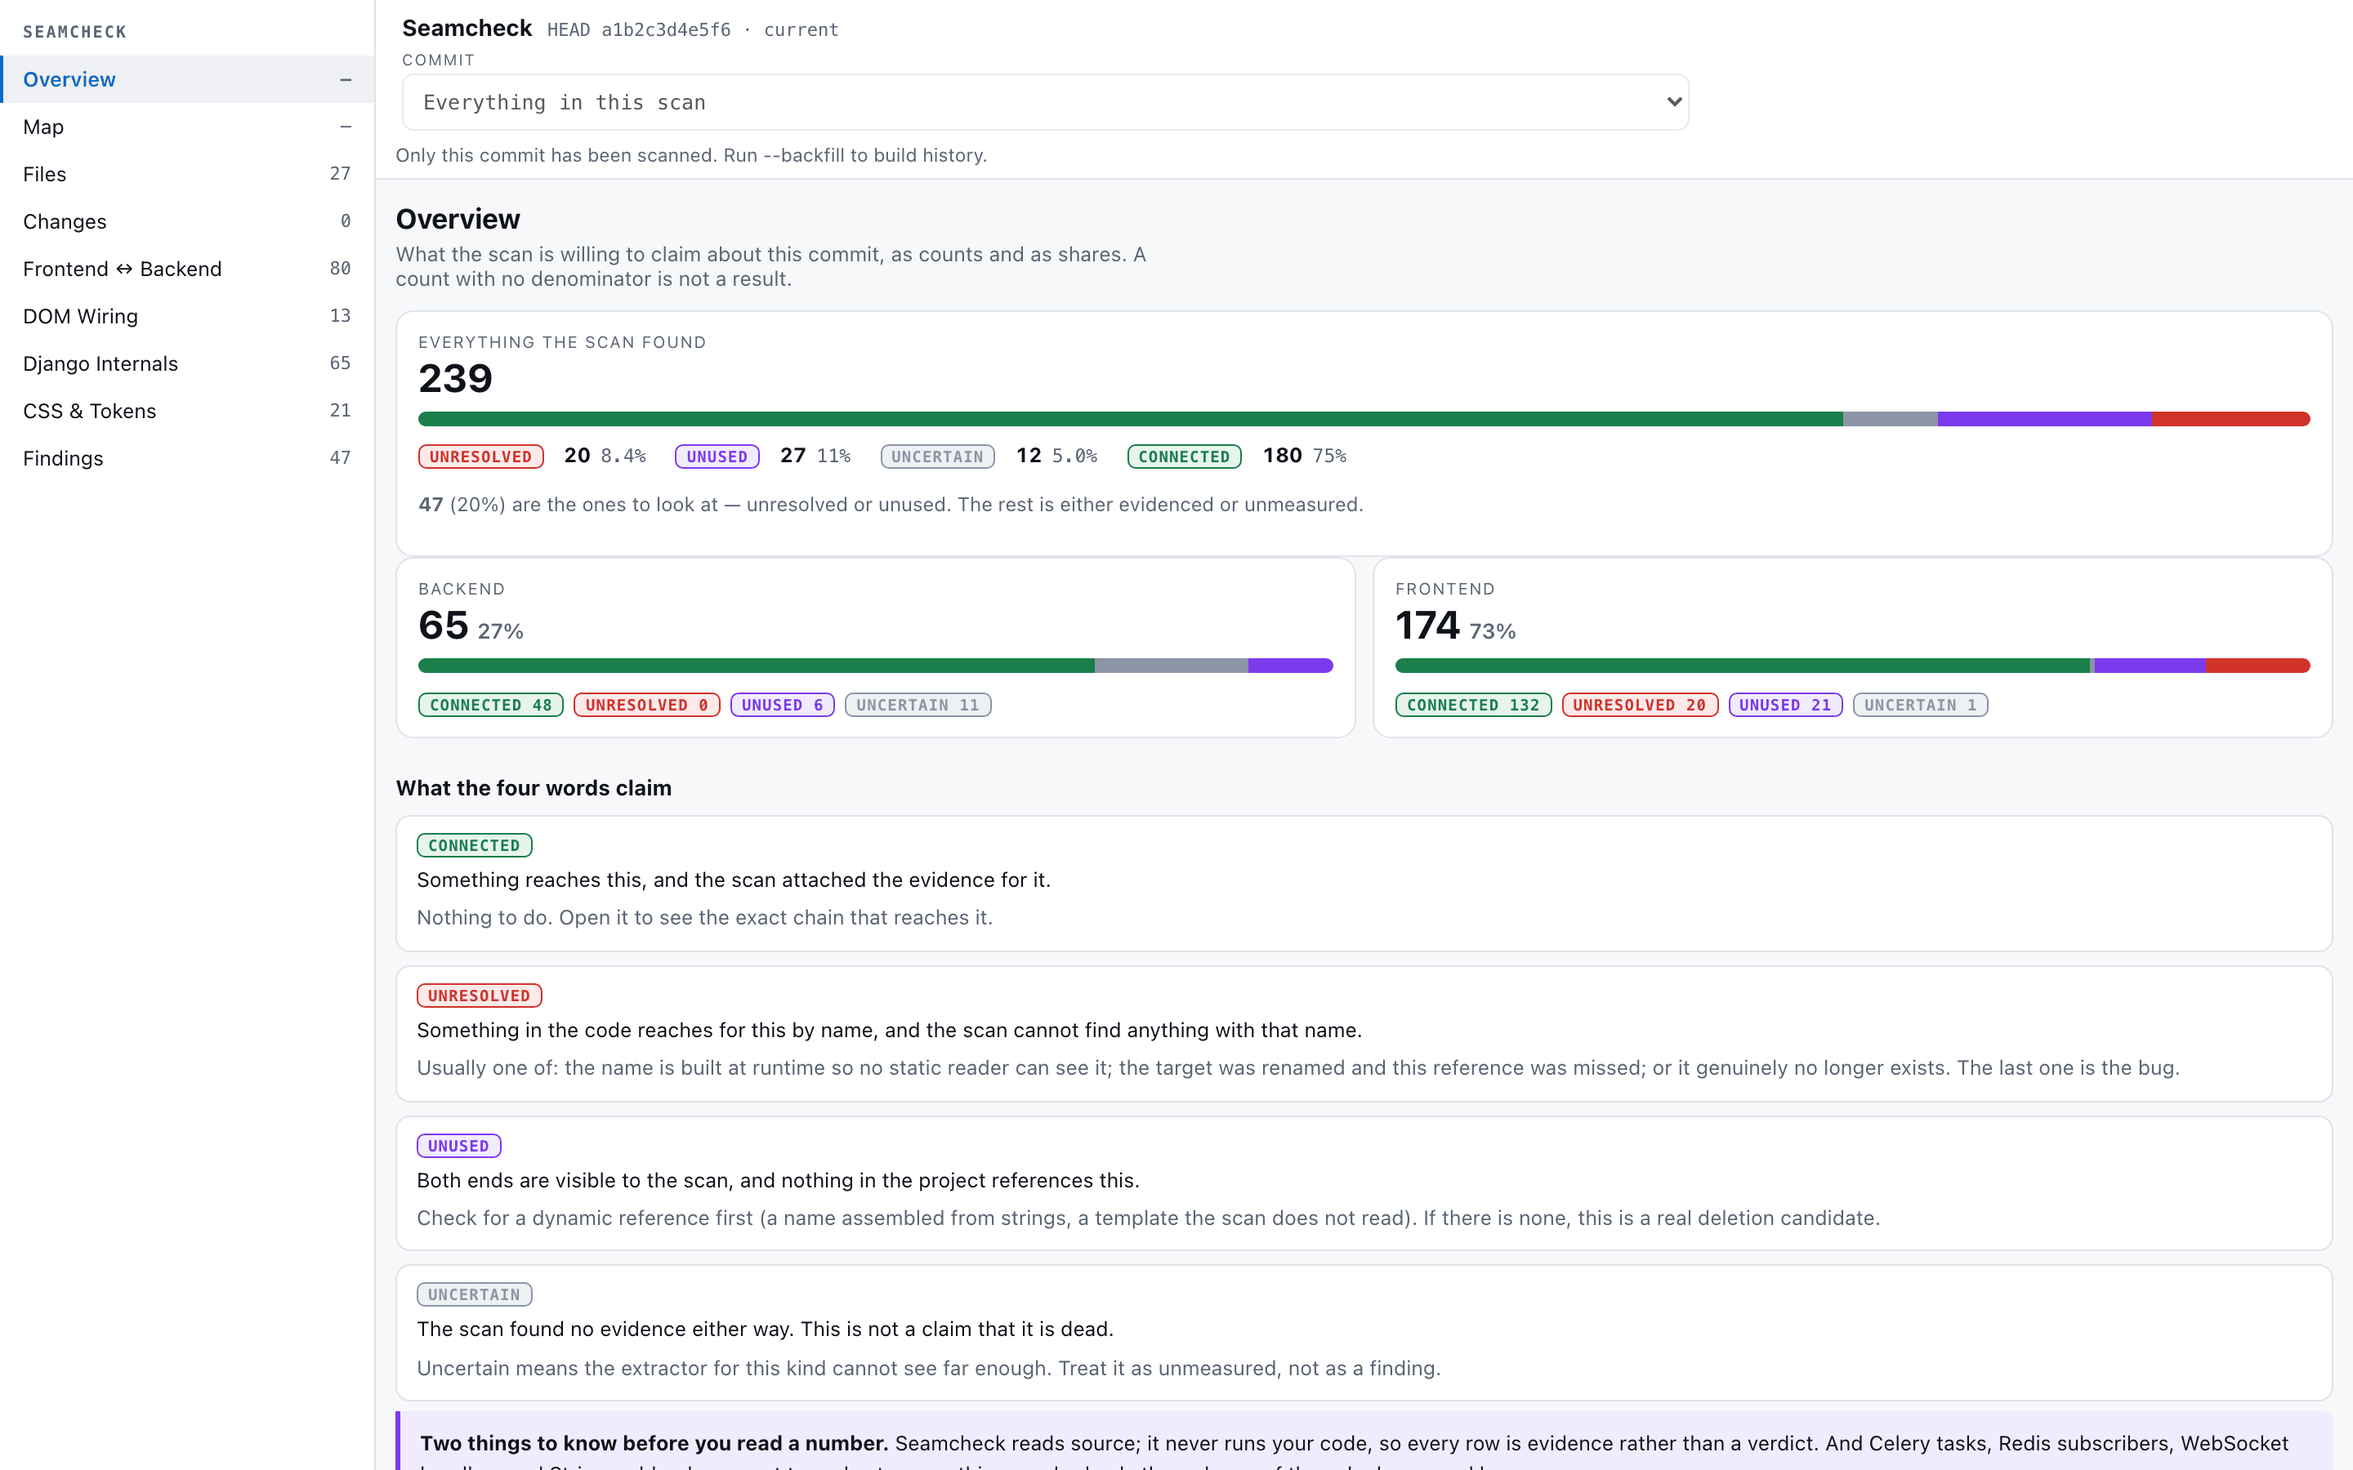
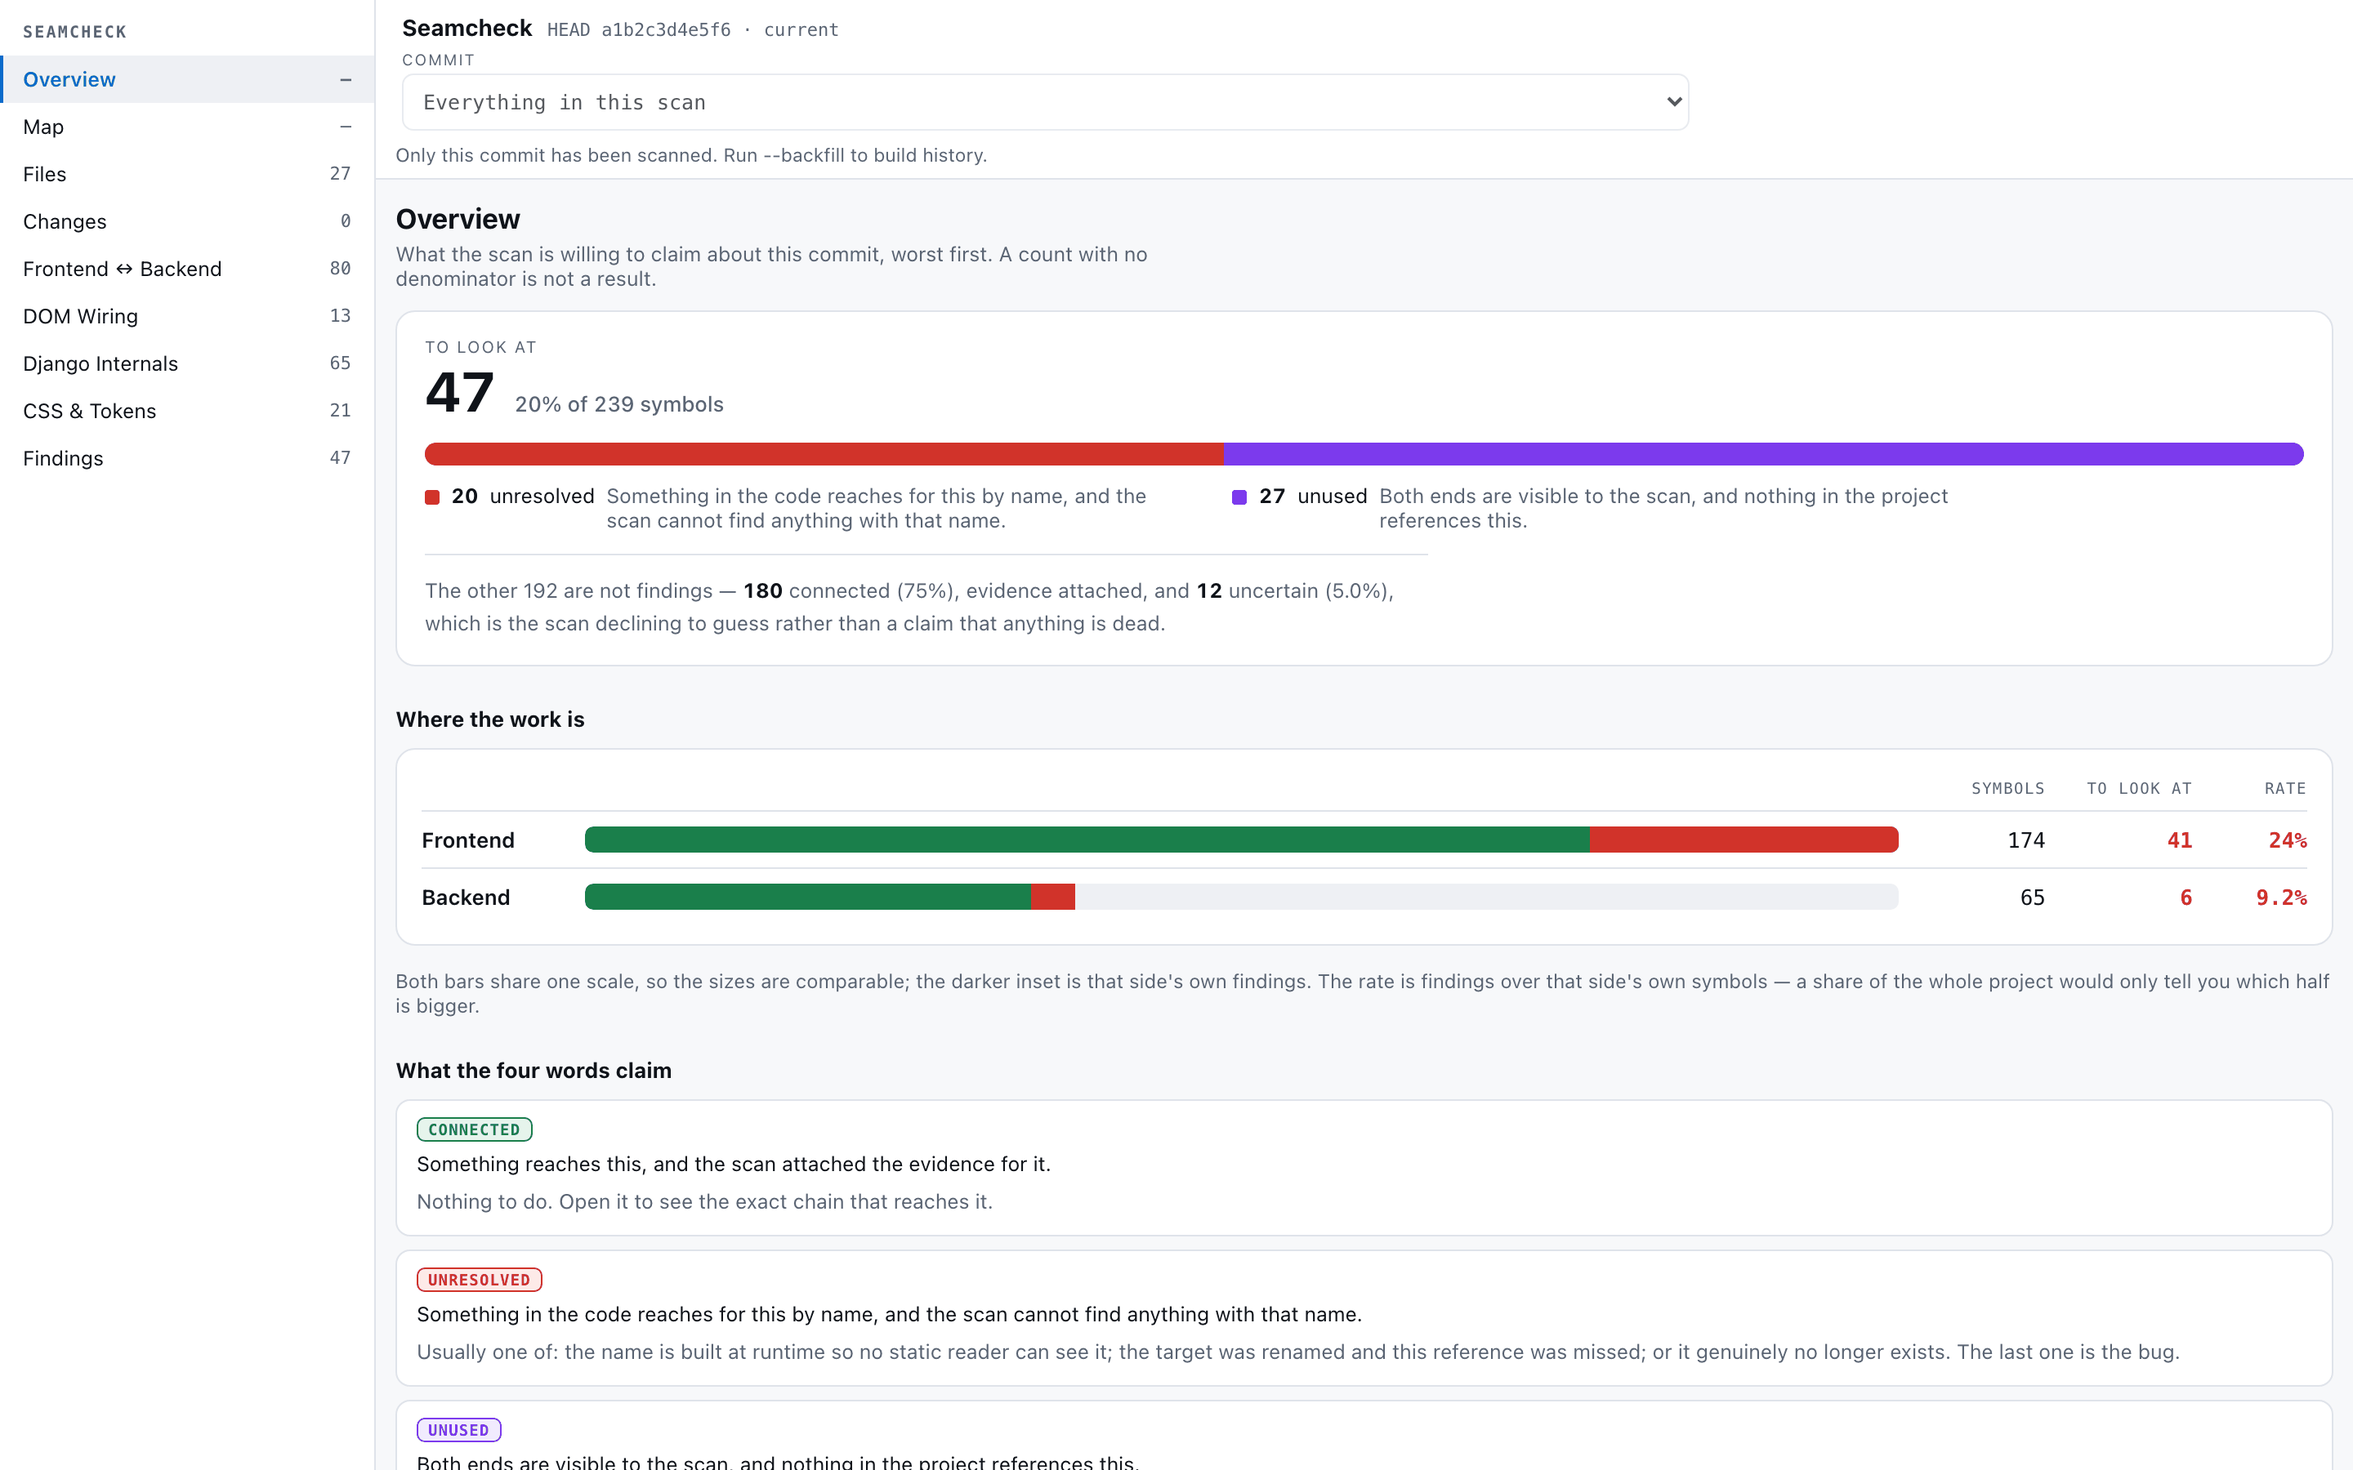
fix(overview): stop spending the chart on the part nobody acts on
The stacked bar drew all four statuses against the whole codebase, so 96%
of its width went to connected and uncertain - the two you never act on -
and the 4% you opened the page for was a sliver at the far right edge.
Visual weight exactly inverted against importance.

The findings now get a bar of their own, scaled to the findings: 1,319
unresolved against 136 unused is legible, which is the only comparison in
there worth drawing. Connected and uncertain become one muted sentence
underneath, which is all "not a finding" needs.

Backend and frontend were two cards each drawn to its own width, sitting
side by side inviting a comparison the scales made meaningless - 854 and
35,890 rendered the same length. One shared scale now, so the 42x
difference is the thing you see. Each side is also rated against ITSELF
rather than against the project total: "backend is 2.3% of symbols" is a
fact about the project, where "backend findings rate 0.0%, frontend 4.1%"
is a fact about its health, and on this scan it says the whole story in
one line.

diff --git a/seamcheck/renderers/map_html.py b/seamcheck/renderers/map_html.py
@@ -256,8 +256,6 @@ svg.nolabels .nd text { display:none; }
 .card .k { font-size:10px; text-transform:uppercase; letter-spacing:.08em; color:var(--muted); }
 .card .v { font-size:24px; font-weight:700; margin:2px 0 7px; }
 .card .vs { font-size:13px; font-weight:600; color:var(--muted); }
-/* One bar, four segments, to scale. The shares are the result; the counts are the detail
-   under them. A number with no denominator is not a result. */
 .stack { display:flex; height:9px; border-radius:5px; overflow:hidden; background:var(--sunk);
          margin:0 0 10px; }
 .stack i { display:block; height:100%; }
@@ -265,12 +263,59 @@ svg.nolabels .nd text { display:none; }
 .stack i.unresolved { background:var(--crit); }
 .stack i.unused { background:var(--warn); }
 .stack i.uncertain { background:var(--dim); }
-.tallies { display:flex; flex-wrap:wrap; gap:6px 18px; }
-.ty { display:flex; align-items:baseline; gap:6px; font-size:12.5px; }
-.ty b { font-variant-numeric:tabular-nums; }
-.ty .pc { color:var(--muted); font-size:11.5px; font-variant-numeric:tabular-nums;
-          font-family:ui-monospace,Menlo,monospace; }
-.panel h3.sec { font-size:13px; margin:22px 0 9px; }
+.panel h3.sec { font-size:13px; margin:24px 0 10px; }
+
+/* The one number worth opening the page for, at the size that says so. */
+.hero { background:var(--panel); border:1px solid var(--line); border-radius:12px;
+        padding:15px 17px; }
+.hero .hk { font-size:10px; text-transform:uppercase; letter-spacing:.09em; color:var(--muted); }
+.hero .hv { font-size:34px; font-weight:700; letter-spacing:-.5px; margin:1px 0 12px;
+            display:flex; align-items:baseline; gap:11px; font-variant-numeric:tabular-nums; }
+.hero .hp { font-size:13px; font-weight:500; color:var(--muted); letter-spacing:0; }
+/* Findings against findings. Drawn against the whole codebase this bar was 96% the two
+   statuses nobody acts on, and the part you came for was a sliver at the far edge. */
+.split { display:flex; height:14px; border-radius:7px; overflow:hidden; background:var(--sunk); }
+.split i { display:block; height:100%; }
+.split i.unresolved { background:var(--crit); }
+.split i.unused { background:var(--warn); }
+.splitkey { display:flex; flex-wrap:wrap; gap:5px 22px; margin-top:11px; }
+.kk { display:flex; align-items:baseline; gap:7px; font-size:12.5px; max-width:60ch; }
+.kk i { width:9px; height:9px; border-radius:2px; flex:none; transform:translateY(1px); }
+.kk i.unresolved { background:var(--crit); }
+.kk i.unused { background:var(--warn); }
+.kk b { font-variant-numeric:tabular-nums; }
+.kk em { font-style:normal; color:var(--muted); }
+.rest { margin:13px 0 0; padding-top:12px; border-top:1px solid var(--line);
+        color:var(--muted); font-size:12.5px; line-height:1.6; max-width:78ch; }
+.rest b { color:var(--ink); font-variant-numeric:tabular-nums; }
+
+/* One scale for both sides, or the comparison the layout invites is a lie. */
+.wtable { background:var(--panel); border:1px solid var(--line); border-radius:12px;
+          padding:6px 15px 12px; }
+.wrow { display:grid; grid-template-columns:88px 1fr 78px 78px 58px; gap:12px;
+        align-items:center; padding:9px 0; border-bottom:1px solid var(--line); }
+.wrow:last-child { border-bottom:0; }
+.whead { padding:9px 0 6px; border-bottom:1px solid var(--line); }
+/* The header's bar cell is a spacer, not a bar. With the track background on it, it read
+   as an empty third row above the data. */
+.whead .wbar { background:none; }
+.whead .wnum { font-size:9.5px; text-transform:uppercase; letter-spacing:.08em;
+               color:var(--muted); font-weight:500; }
+.wname { font-size:13px; font-weight:600; }
+.wbar { height:16px; background:var(--sunk); border-radius:5px; overflow:hidden; }
+.wbar i { display:block; height:100%; background:var(--ok); border-radius:5px 0 0 5px;
+          position:relative; min-width:2px; }
+.wbar em { position:absolute; right:0; top:0; height:100%; background:var(--crit);
+           display:block; }
+.wnum { text-align:right; font-size:13px; font-variant-numeric:tabular-nums;
+        font-family:ui-monospace,Menlo,monospace; }
+.wnum.hot { color:var(--crit); font-weight:700; }
+.wnum.cool { color:var(--muted); }
+
+@media (max-width: 760px) {
+  .wrow { grid-template-columns:74px 1fr 62px 46px; }
+  .wrow > :nth-child(4) { display:none; }
+}
 .gap { color:var(--muted); font-size:12.5px; border:1px dashed var(--line);
        border-radius:9px; padding:11px 12px; }
 .more { text-align:center; padding:10px; border:1px solid var(--line); border-radius:9px;
@@ -1178,42 +1223,83 @@ function bar(counts, total) {
     .join("") + `</div>`;
 }
 
-function tally(counts, total) {
-  return ["unresolved", "unused", "uncertain", "connected"].map(k =>
-    `<div class="ty"><span class="pill ${k}">${k}</span>
-      <b>${(counts[k] || 0).toLocaleString()}</b>
-      <span class="pc">${pct(counts[k] || 0, total)}</span></div>`).join("");
-}
+const n = v => (v || 0).toLocaleString();
 
-function overviewHtml() {
-  const sum = c => Object.values(c).reduce((a, n) => a + n, 0);
+// The four statuses split two ways that matter, and only one of them is a to-do list.
+function totals() {
   const all = {};
   ["connected", "unresolved", "unused", "uncertain"].forEach(k => {
     all[k] = (D.backend[k] || 0) + (D.frontend[k] || 0);
   });
-  const total = sum(all), back = sum(D.backend), front = sum(D.frontend);
-  const looking = (all.unresolved || 0) + (all.unused || 0);
+  const sum = c => Object.values(c).reduce((a, v) => a + v, 0);
+  return {all, total: sum(all), looking: (all.unresolved || 0) + (all.unused || 0)};
+}
 
+// Findings drawn against FINDINGS, not against the codebase. A stacked bar of all four
+// statuses spends 96% of its width on connected and uncertain - the two nobody acts on -
+// and leaves the 4% you came for as a sliver at the far right. Inside the actionable set
+// the split is legible, which is the only place a bar earns its ink here.
+function heroHtml() {
+  const {all, total, looking} = totals();
+  const rest = total - looking;
+  const seg = k => !all[k] ? "" :
+    `<i class="${k}" style="width:${(all[k] / looking) * 100}%"
+        title="${k} — ${n(all[k])}"></i>`;
+  const key = k => !all[k] ? "" : `<span class="kk"><i class="${k}"></i>
+    <b>${n(all[k])}</b> ${k} <em>${esc((MEANING["*|" + k] || {}).means || "")}</em></span>`;
+
+  return `<div class="hero">
+    <div class="hk">To look at</div>
+    <div class="hv">${n(looking)}<span class="hp">${pct(looking, total)} of ${n(total)} symbols</span></div>
+    ${looking ? `<div class="split">${seg("unresolved")}${seg("unused")}</div>
+    <div class="splitkey">${key("unresolved")}${key("unused")}</div>`
+      : `<div class="gap">Nothing unresolved and nothing unused. That is the whole to-do list.</div>`}
+    <p class="rest">The other ${n(rest)} are not findings —
+      <b>${n(all.connected)}</b> connected (${pct(all.connected, total)}), evidence attached, and
+      <b>${n(all.uncertain)}</b> uncertain (${pct(all.uncertain, total)}), which is the scan
+      declining to guess rather than a claim that anything is dead.</p>
+  </div>`;
+}
+
+// Backend against frontend, on ONE scale. Two cards each drawn to their own width made 854
+// and 35,890 look like comparable quantities sitting side by side, and reported each as a
+// share of the total - which says only "the frontend is bigger", a fact about the project
+// and not about its health. The bar is size; the darker inset is that side's own findings;
+// the rate is findings over that side's own symbols. On this project it says the thing that
+// matters in one line: the backend is clean and every finding is in the frontend.
+function sidesHtml() {
+  const sum = c => Object.values(c).reduce((a, v) => a + v, 0);
+  const rows = [["Frontend", D.frontend], ["Backend", D.backend]]
+    .map(([name, c]) => ({
+      name, total: sum(c), finds: (c.unresolved || 0) + (c.unused || 0),
+    }))
+    .sort((a, b) => b.total - a.total);
+  const widest = Math.max(...rows.map(r => r.total), 1);
+
+  return `<h3 class="sec">Where the work is</h3>
+    <div class="wtable">
+      <div class="wrow whead"><div class="wname"></div><div class="wbar"></div>
+        <div class="wnum">symbols</div><div class="wnum">to look at</div><div class="wnum">rate</div></div>
+      ${rows.map(r => `<div class="wrow">
+        <div class="wname">${esc(r.name)}</div>
+        <div class="wbar"><i style="width:${(r.total / widest) * 100}%">
+          <em style="width:${r.total ? (r.finds / r.total) * 100 : 0}%"></em></i></div>
+        <div class="wnum">${n(r.total)}</div>
+        <div class="wnum ${r.finds ? "hot" : "cool"}">${n(r.finds)}</div>
+        <div class="wnum ${r.finds ? "hot" : "cool"}">${pct(r.finds, r.total)}</div>
+      </div>`).join("")}
+    </div>
+    <p class="gloss">Both bars share one scale, so the sizes are comparable; the darker inset
+      is that side's own findings. The rate is findings over that side's own symbols — a share
+      of the whole project would only tell you which half is bigger.</p>`;
+}
+
+function overviewHtml() {
   return `<h2>Overview</h2><p class="blurb">What the scan is willing to claim about this
-    commit, as counts and as shares. A count with no denominator is not a result.</p>
+    commit, worst first. A count with no denominator is not a result.</p>
 
-    <div class="cards">
-      <div class="card wide"><div class="k">Everything the scan found</div>
-        <div class="v">${total.toLocaleString()}</div>
-        ${bar(all, total)}
-        <div class="tallies">${tally(all, total)}</div>
-        <p class="gloss"><b>${looking.toLocaleString()}</b>
-          (${pct(looking, total)}) are the ones to look at — unresolved or unused.
-          The rest is either evidenced or unmeasured.</p></div>
-    </div>
-    <div class="cards">
-      <div class="card"><div class="k">Backend</div>
-        <div class="v">${back.toLocaleString()} <span class="vs">${pct(back, total)}</span></div>
-        ${bar(D.backend, back)}${pills(D.backend)}</div>
-      <div class="card"><div class="k">Frontend</div>
-        <div class="v">${front.toLocaleString()} <span class="vs">${pct(front, total)}</span></div>
-        ${bar(D.frontend, front)}${pills(D.frontend)}</div>
-    </div>
+    ${heroHtml()}
+    ${sidesHtml()}
 
     <h3 class="sec">What the four words claim</h3>
     <div class="skey">${statusKey()}</div>

diff --git a/seamcheck/tests/test_renderer_map.py b/seamcheck/tests/test_renderer_map.py
@@ -313,7 +313,41 @@ class MergedReviewViewTests(SimpleTestCase):
         out = map_html.render(_map(), console=self._console())
 
         self.assertIn("function pct(n, total)", out)
-        self.assertIn("are the ones to look at", out)
+        self.assertIn("To look at", out)
+
+    def test_the_findings_bar_is_scaled_to_the_findings(self):
+        # Drawn against the whole codebase it was 96% connected-and-uncertain - the two
+        # statuses nobody acts on - with the part you came for a sliver at the far edge.
+        out = map_html.render(_map(), console=self._console())
+
+        self.assertIn("(all[k] / looking) * 100", out)
+        self.assertIn('class="split"', out)
+
+    def test_backend_and_frontend_share_one_scale(self):
+        # Two cards each drawn to their own width made 854 and 35,890 look like comparable
+        # quantities sitting side by side.
+        out = map_html.render(_map(), console=self._console())
+
+        self.assertIn("const widest = Math.max(...rows.map(r => r.total), 1);", out)
+        self.assertIn("(r.total / widest) * 100", out)
+
+    def test_each_side_is_rated_against_itself_not_the_project(self):
+        # A share of the total says only which half is bigger - a fact about the project,
+        # not about its health.
+        out = map_html.render(_map(), console=self._console())
+
+        self.assertIn("pct(r.finds, r.total)", out)
+
+    def test_an_empty_to_do_list_says_so_rather_than_drawing_a_bar_of_nothing(self):
+        out = map_html.render(_map(), console=self._console())
+
+        self.assertIn("That is the whole to-do list.", out)
+
+    def test_the_header_row_draws_no_bar_track(self):
+        # With the track background on it, the header read as an empty third row of data.
+        out = map_html.render(_map(), console=self._console())
+
+        self.assertIn(".whead .wbar { background:none; }", out)
 
     def test_the_map_list_toggle_is_not_a_grey_chip(self):
         # The one control that changes what kind of thing you are looking at.
